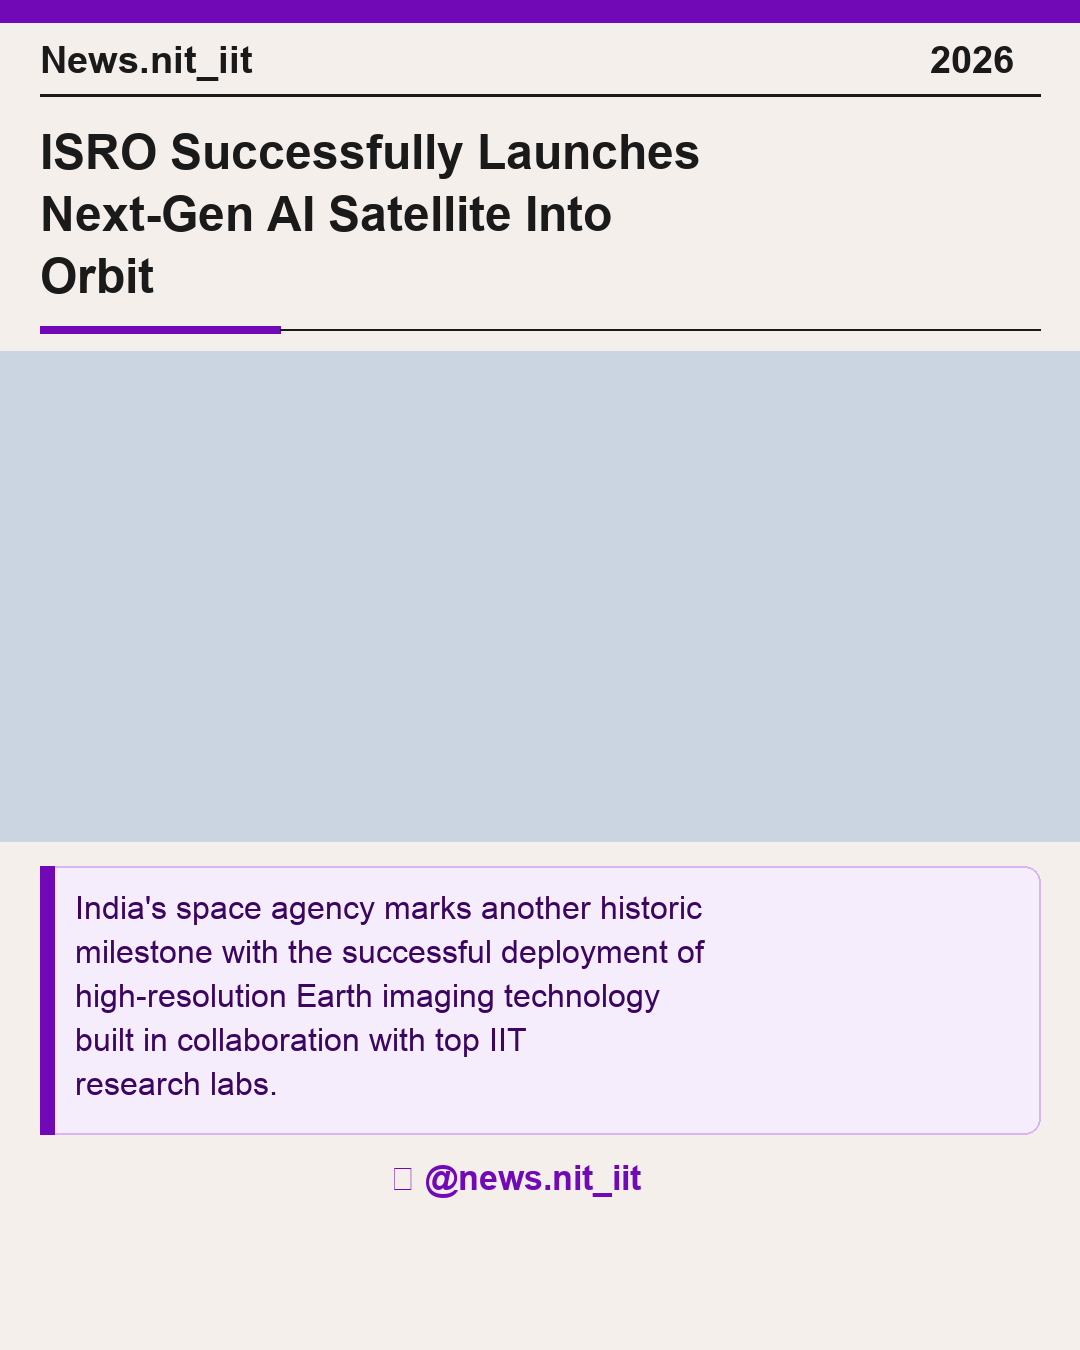
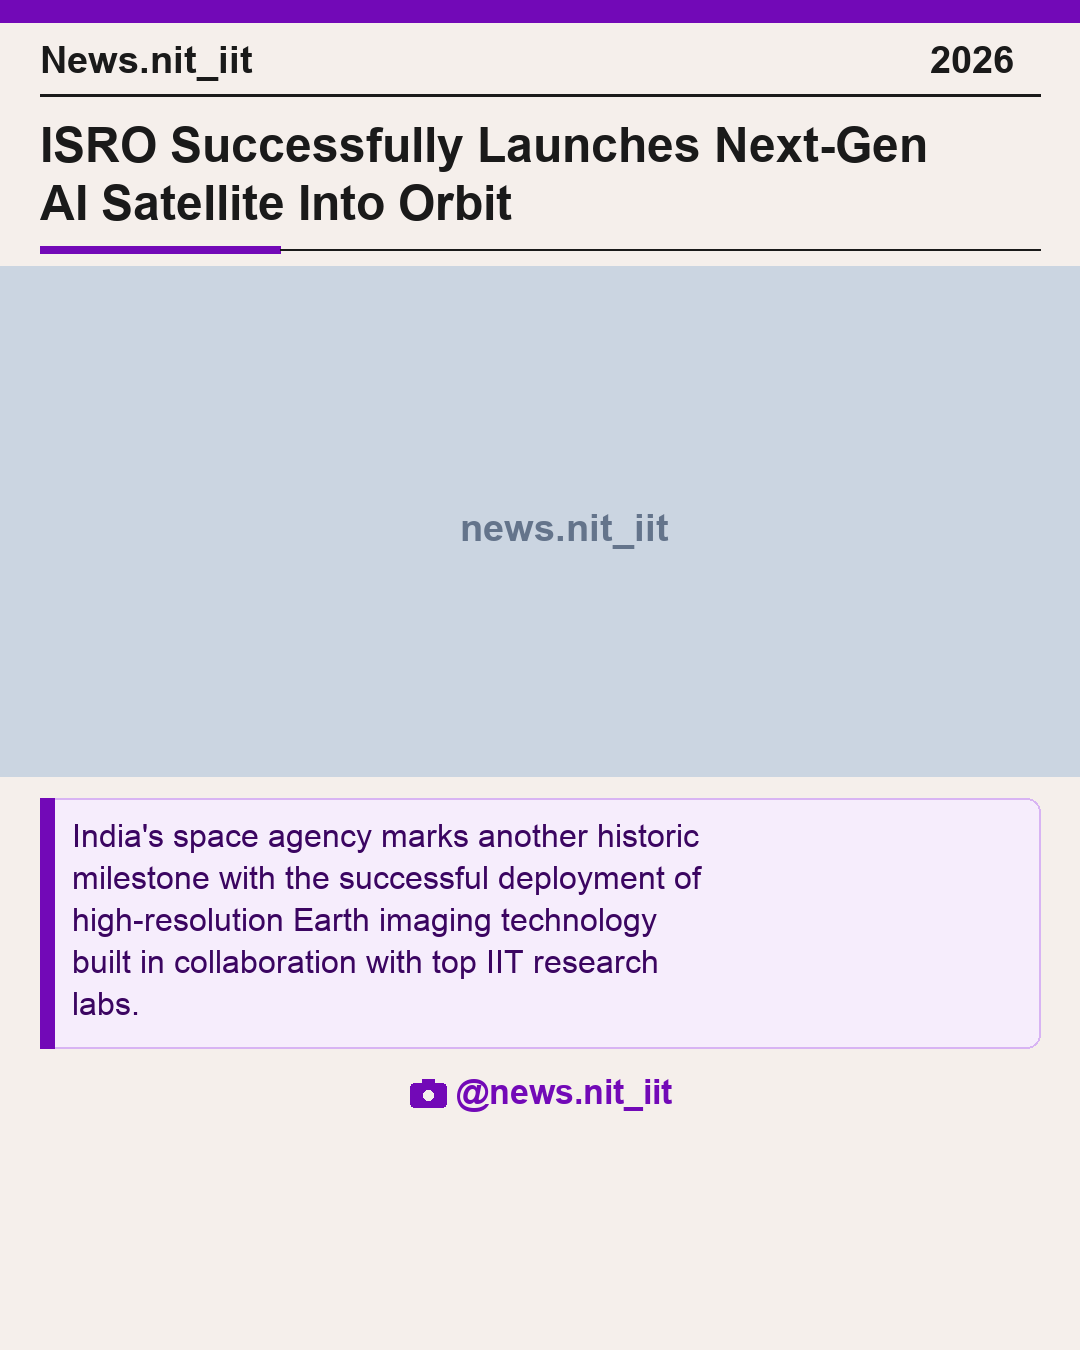
abd

Changed region(s): [[0.0, 0.56, 1.0, 0.9022], [0.0, 0.0933, 1.0, 0.28], [0.4278, 0.3733, 0.6111, 0.4044]]

diff --git a/design_post.py b/design_post.py
@@ -1,11 +1,9 @@
 """
 design_post.py
-Generates 1080x1350 Instagram poster cards matching the exact News.nit_iit template with FIXED EMOJIS:
-- 🏛 Politics & Govt
-- 📚 Student & Education
-- 🚀 Tech, Science & Innovation
-- 📩 Inbox Message (General)
-- 📸 Camera Emoji next to @news.nit_iit username
+Generates 1080x1350 Instagram portrait posters matching the exact News.nit_iit template:
+- Fixed Headline Line Wrapping (1 & 2 lines fit naturally!)
+- Zero awkward blank gaps between headline, image, and summary box
+- Guaranteed Camera 📸 & Category icons rendering across all Mac/Linux machines
 """
 
 import os
@@ -18,24 +16,24 @@ BUCKET_COLORS = {
         "tint_bg": "#FDF0EB", 
         "tint_border": "#F8C6B9", 
         "text_dark": "#6E2A1A", 
-        "headline_emoji": "🏛",   # Fixed Politics Emoji
-        "summary_emoji": "📌"
+        "badge_label": "🏛 POLITICS",
+        "default_emoji": "🏛"
     },
     "StudentEducation": {
         "accent": "#2A9D8F", 
         "tint_bg": "#EBF7F5", 
         "tint_border": "#B2E2DD", 
         "text_dark": "#16524A", 
-        "headline_emoji": "📚",   # Fixed Education/Books Emoji
-        "summary_emoji": "📌"
+        "badge_label": "📚 EDUCATION",
+        "default_emoji": "📚"
     },
     "TechInnovation": {
         "accent": "#7209B7", 
         "tint_bg": "#F6EDFC", 
         "tint_border": "#D8B4F3", 
         "text_dark": "#3B0561", 
-        "headline_emoji": "🚀",   # Fixed Science/Tech/Rocket Emoji
-        "summary_emoji": "🔹"
+        "badge_label": "🚀 TECH & AI",
+        "default_emoji": "🚀"
     },
 }
 
@@ -44,8 +42,8 @@ DEFAULT_COLOR = {
     "tint_bg": "#FDF0EB", 
     "tint_border": "#F8C6B9", 
     "text_dark": "#6E2A1A", 
-    "headline_emoji": "📩",       # Fixed Inbox Message Emoji for General News
-    "summary_emoji": "📌"
+    "badge_label": "📩 NEWS",
+    "default_emoji": "📩"
 }
 
 
@@ -81,7 +79,7 @@ def get_font(font_type="bold", size=36):
         return ImageFont.load_default()
 
 
-def get_emoji_font(size=42):
+def get_emoji_font(size=44):
     """Loads Apple Color Emoji on Mac (with index=0) or Noto Color Emoji on Linux."""
     emoji_configs = [
         ("/System/Library/Fonts/Apple Color Emoji.ttc", 0),
@@ -100,8 +98,18 @@ def get_emoji_font(size=42):
     return None
 
 
+def draw_camera_icon(draw, x, y, color):
+    """Draws a crisp camera icon vector graphic so camera logo ALWAYS displays cleanly!"""
+    # Camera Body
+    draw.rounded_rectangle([(x, y + 6), (x + 36, y + 30)], radius=4, fill=color)
+    # Camera Flash/Top Lens bump
+    draw.rectangle([(x + 12, y + 2), (x + 24, y + 6)], fill=color)
+    # Lens Circle
+    draw.ellipse([(x + 11, y + 11), (x + 25, y + 25)], fill="#F5EFEB", outline=color, width=2)
+
+
 def draw_color_emoji(draw, x, y, emoji_char, font_emoji):
-    """Draws a color emoji glyph cleanly."""
+    """Draws a color emoji glyph safely."""
     if emoji_char and font_emoji:
         try:
             draw.text((x, y - 2), emoji_char, font=font_emoji, embedded_color=True)
@@ -113,16 +121,15 @@ def draw_color_emoji(draw, x, y, emoji_char, font_emoji):
 
 def create_card(headline, summary, image_path, bucket="StudentEducation", language="en", emoji=None, output_path="output/card.png"):
     """
-    Renders the exact News.nit_iit template layout with Fixed Category Emojis (1080x1350).
+    Renders the exact News.nit_iit 1080x1350 template with zero blank gaps & crisp layout.
     """
     theme = BUCKET_COLORS.get(bucket, DEFAULT_COLOR)
     accent_color = theme["accent"]
-    head_emoji = emoji or theme["headline_emoji"]
-    sum_emoji = theme["summary_emoji"]
+    head_emoji = emoji or theme["default_emoji"]
 
     width, height = 1080, 1350
     bg_color = "#F5EFEB"  # Off-white / Cream background
-    card = Image.new("RGB", (width, height), bg_color)
+    card = Image.new("RGBA", (width, height), (245, 239, 235, 255))
     draw = ImageDraw.Draw(card)
 
     # Load Fonts
@@ -140,19 +147,24 @@ def create_card(headline, summary, image_path, bucket="StudentEducation", langua
     draw.text((930, 38), "2026", fill="#1A1A1A", font=font_header)
     draw.line([(40, 95), (1040, 95)], fill="#1A1A1A", width=3)
 
-    # 3. Headline Section with Fixed Category Emoji (🏛 / 📚 / 🚀 / 📩)
-    y_cursor = 125
+    # 3. Headline Section with Clean Line Wrapping (1 or 2 lines fit naturally!)
+    y_cursor = 118
 
-    # Draw Fixed Category Emoji before Headline
+    # Clean headline text (remove leading emojis if passed in text)
+    clean_headline = headline.strip()
+    if clean_headline and ord(clean_headline[0]) > 0x2000:
+        clean_headline = clean_headline[1:].strip()
+
+    # Draw Category Emoji / Icon
     has_emoji = draw_color_emoji(draw, 40, y_cursor, head_emoji, font_emoji)
-    headline_x = 98 if has_emoji else 40
+    headline_x = 96 if has_emoji else 40
 
-    # Wrap Headline Text cleanly
-    words = headline.strip().split()
+    # 🔹 WIDER WRAPPING LIMIT (40 characters) -> Allows 1 and 2 line headlines to fit cleanly!
+    words = clean_headline.split()
     headline_lines = []
     cur_line = ""
     for w in words:
-        if len(cur_line + " " + w) < 28:
+        if len(cur_line + " " + w) < 38:
             cur_line += " " + w if cur_line else w
         else:
             headline_lines.append(cur_line)
@@ -163,33 +175,41 @@ def create_card(headline, summary, image_path, bucket="StudentEducation", langua
     for i, line in enumerate(headline_lines[:3]):
         draw_x = headline_x if i == 0 else 40
         draw.text((draw_x, y_cursor), line, fill="#1A1A1A", font=font_headline)
-        y_cursor += 62
+        y_cursor += 58
 
     # Accent Underline
-    y_cursor += 15
+    y_cursor += 12
     draw.rectangle([(40, y_cursor), (280, y_cursor + 7)], fill=accent_color)
     draw.line([(280, y_cursor + 3), (1040, y_cursor + 3)], fill="#1A1A1A", width=2)
 
-    # 4. Middle Image Section (Full Width 1080x490)
-    image_top = y_cursor + 25
-    image_height = 490
+    # 4. Middle Image Section (Full Width 1080px, Dynamic height to eliminate gaps!)
+    image_top = y_cursor + 20
+    # Image height automatically expands to fill middle space cleanly
+    image_height = 510 if len(headline_lines) <= 2 else 460
+
     if image_path and os.path.exists(image_path):
         try:
-            main_img = Image.open(image_path).convert("RGB")
+            main_img = Image.open(image_path).convert("RGBA")
             main_img = main_img.resize((1080, image_height), Image.Resampling.LANCZOS)
             card.paste(main_img, (0, image_top))
         except Exception as e:
             print(f"Error placing image: {e}")
             draw.rectangle([(0, image_top), (1080, image_top + image_height)], fill="#CBD5E1")
     else:
+        # High quality neutral background placeholder if no photo
         draw.rectangle([(0, image_top), (1080, image_top + image_height)], fill="#CBD5E1")
+        draw.text((460, image_top + (image_height // 2) - 15), "news.nit_iit", fill="#64748B", font=font_header)
 
     # 5. DYNAMIC Summary Box Section
-    sum_words = summary.strip().split()
+    clean_summary = summary.strip()
+    if clean_summary and ord(clean_summary[0]) > 0x2000:
+        clean_summary = clean_summary[1:].strip()
+
+    sum_words = clean_summary.split()
     sum_lines = []
     cur_sum = ""
     for w in sum_words:
-        if len(cur_sum + " " + w) < 44:
+        if len(cur_sum + " " + w) < 46:
             cur_sum += " " + w if cur_sum else w
         else:
             sum_lines.append(cur_sum)
@@ -198,38 +218,41 @@ def create_card(headline, summary, image_path, bucket="StudentEducation", langua
         sum_lines.append(cur_sum)
 
     display_lines = sum_lines[:5]
-    line_height = 44
-    box_top = image_top + image_height + 25
+    line_height = 42
+    box_top = image_top + image_height + 22
     
-    box_padding_vertical = 24
+    box_padding_vertical = 20
     content_height = (len(display_lines) * line_height) + (box_padding_vertical * 2)
-    box_bottom = min(1250, box_top + content_height)
+    box_bottom = min(1240, box_top + content_height)
     box_left, box_right = 40, 1040
 
     # Draw Dynamic Summary Box
-    draw.rounded_rectangle([(box_left, box_top), (box_right, box_bottom)], radius=16, fill=theme["tint_bg"], outline=theme["tint_border"], width=2)
+    draw.rounded_rectangle([(box_left, box_top), (box_right, box_bottom)], radius=14, fill=theme["tint_bg"], outline=theme["tint_border"], width=2)
     draw.rectangle([(box_left, box_top), (box_left + 14, box_bottom)], fill=accent_color)
 
     # Draw Summary Lines inside box
     sum_y = box_top + box_padding_vertical
-    has_sum_emoji = draw_color_emoji(draw, 75, sum_y, sum_emoji, font_emoji)
-    sum_text_x = 125 if has_sum_emoji else 75
+    has_sum_emoji = draw_color_emoji(draw, 72, sum_y, "📌", font_emoji)
+    sum_text_x = 120 if has_sum_emoji else 72
 
     for i, line in enumerate(display_lines):
-        draw_x = sum_text_x if i == 0 else 75
+        draw_x = sum_text_x if i == 0 else 72
         draw.text((draw_x, sum_y), line, fill=theme["text_dark"], font=font_summary)
         sum_y += line_height
 
-    # 6. Fixed Camera Emoji 📸 next to @news.nit_iit Username Footer
-    footer_y = min(1285, box_bottom + 25)
-    has_cam = draw_color_emoji(draw, 390, footer_y, "📸", font_emoji)
+    # 6. GUARANTEED Footer Watermark (📸 @news.nit_iit)
+    footer_y = min(1280, box_bottom + 25)
+    footer_center_x = 410
+
+    # Try color emoji first, fallback to crisp vector camera icon if font unsupported
+    has_cam = draw_color_emoji(draw, footer_center_x, footer_y, "📸", font_emoji)
     if has_cam:
-        draw.text((445, footer_y), "@news.nit_iit", fill=accent_color, font=font_footer)
+        draw.text((footer_center_x + 52, footer_y), "@news.nit_iit", fill=accent_color, font=font_footer)
     else:
-        # Fallback text if emoji font fails
-        draw.text((390, footer_y), "📸 @news.nit_iit", fill=accent_color, font=font_footer)
+        draw_camera_icon(draw, footer_center_x, footer_y + 4, accent_color)
+        draw.text((footer_center_x + 46, footer_y), "@news.nit_iit", fill=accent_color, font=font_footer)
 
     os.makedirs(os.path.dirname(output_path), exist_ok=True)
-    card.save(output_path)
+    card.convert("RGB").save(output_path)
     print(f"  Poster card generated: {output_path}")
     return output_path
